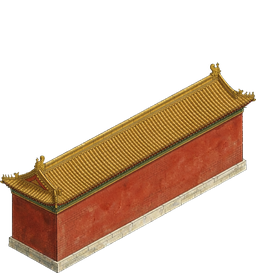
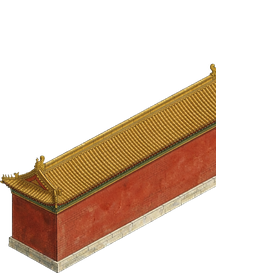
宫墙无缝化：裁掉 u6/v6 右端翘檐端头，多段拼接墙帽连续平整
用户截图反馈：宫墙每隔 6 格冒出一个翘檐端头 + 深色端面，墙面一段一段不平整。
根因：palace_wall_u6/v6 是独立墙段画法（两端都画完整端头），但布局是 6 段首尾
相接；json 虽标 tileable=true，工笔贴图实际未做无缝处理。

修复（零 AI 生成成本、保工笔质感）：
- u6/v6 工笔贴图右端 x>=216 的翘檐端头三角整列裁齐为平切（alpha 清空），
  主墙身与金瓦墙帽完整保留；相邻段按 6 格位移拼接时后段左端自然覆盖端面，
  墙帽成连续一条线；端头视觉由四角角楼自身屋顶提供（角楼衔接目检无缺口）
- public 与 assets_src/modules 双份同步，json 加 seam_note 标注
- palace.py _wall() 增加 cap_ends 参数：u6/v6 程序化重出图时同样不画两端断面
  （u2/v2 保留端头用于独立收边），防止未来重出图回退
- 回归加无缝契约断言（画布宽 256 + seam_note 元数据）
- 回归 76/76、build 通过、角楼/墙线目检一致

Changed region(s): [[0.8438, 0.2327, 1.0, 0.6982]]

diff --git a/shanhai/assets_src/tools/modv2/palace.py b/shanhai/assets_src/tools/modv2/palace.py
@@ -363,29 +363,34 @@ def build_corner():
 
 # ---------------------------------------------------------------- 宫墙 6×2 / 2×6
 
-def _wall(u0, u1, v0, v1):
+def _wall(u0, u1, v0, v1, cap_ends=True):
+    """宫墙直段。cap_ends=False 时不画墙帽两端断面（tileable 无缝版）：
+    多段首尾相接时端面会叠出深色竖条+屋檐端头，看起来一段一段不平整；
+    无缝版只保留长向瓦顶，端头由四角角楼提供。"""
     cv = Image.new('RGBA', (cb.CW, cb.CH), (0, 0, 0, 0))
     d = ImageDraw.Draw(cv)
     cb.iso_box(d, u0, u1, v0, v1, 0, 16, cb.STONE, cb.STONE_S, cb.STONE_T)
     cb.iso_box(d, u0, u1, v0, v1, 16, 138, RED_P, RED_P_D, RED_P_L)
     cb.brick_v(d, u0, u1, v1, 22, 130, RED_P, ch=9.0, cw=0.56)
     cb.brick_u(d, u1, v0, v1, 22, 130, RED_P_D, ch=9.0, cw=0.56, seed=1)
-    # 黄瓦墙帽 + 内侧压顶
+    # 黄瓦墙帽：长向顶面始终画；两端断面只在独立段（角楼旁收边）才画
     cb.quad(d, cb.S(u0, v1, 138), cb.eu(u1 - u0), cb.ez(12), CAP_GOLD)
-    cb.quad(d, cb.S(u1, v0, 138), cb.ev(v1 - v0), cb.ez(12), CAP_GOLD_D)
+    if cap_ends:
+        cb.quad(d, cb.S(u1, v0, 138), cb.ev(v1 - v0), cb.ez(12), CAP_GOLD_D)
     d.line([cb.S(u0, v1, 150), cb.S(u1, v1, 150)], fill=(252, 232, 160), width=2)
-    d.line([cb.S(u1, v0, 150), cb.S(u1, v1, 150)], fill=(150, 110, 38), width=2)
+    if cap_ends:
+        d.line([cb.S(u1, v0, 150), cb.S(u1, v1, 150)], fill=(150, 110, 38), width=2)
     return cb.POST.add_outline(cv, px=2.2, erode=1.1)
 
 
 def build_wall_u6():
     _canvas(700, 640, 350, 400)
-    return _wall(cb.U0, cb.U0 + 6, cb.V0, cb.V0 + 2)
+    return _wall(cb.U0, cb.U0 + 6, cb.V0, cb.V0 + 2, cap_ends=False)
 
 
 def build_wall_v6():
     _canvas(700, 640, 350, 400)
-    return _wall(cb.U0, cb.U0 + 2, cb.V0, cb.V0 + 6)
+    return _wall(cb.U0, cb.U0 + 2, cb.V0, cb.V0 + 6, cap_ends=False)
 
 
 def build_wall_u2():
